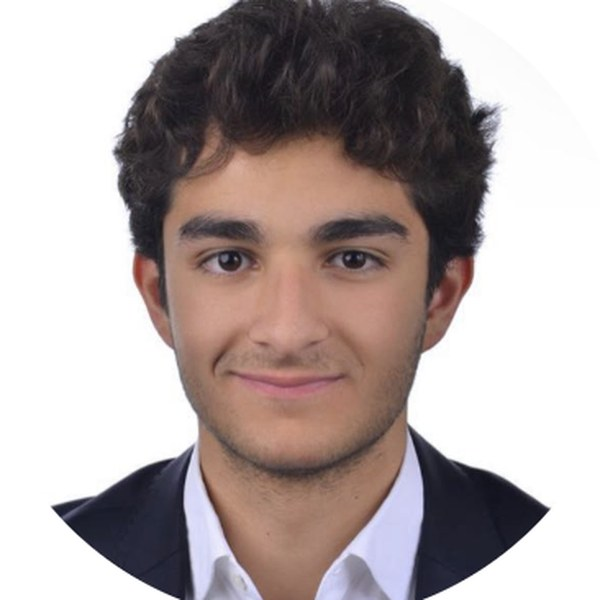
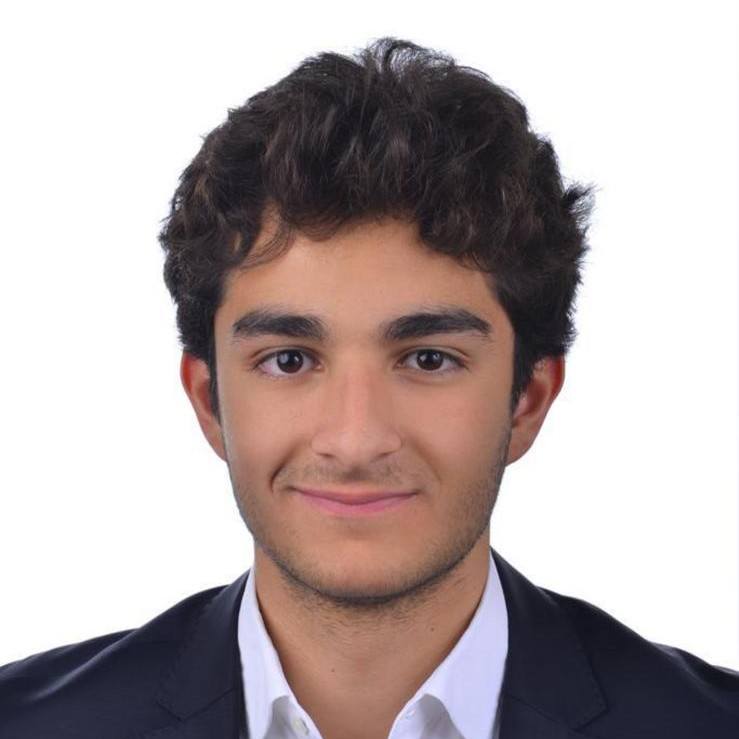
Rework team layout, add Team nav tab, fix schedule row duplication
- Center partial rows and give every team card the same width and height
- Move volunteers above judges; add judge Nicolas Murguia
- Zoom Eric Schwarz's photo; replace Bader Al-Saloum's headshot
- Add Team link to the desktop and mobile nav
- Key schedule rows by time + title so Day 2's two MLH Workshops no
  longer collide and leave a stale row when switching days
- Crew count is 250

Claude-Session: https://claude.ai/code/session_01Pmmr79BDP1hdPH9St7raZB

diff --git a/src/app/components/Team.tsx b/src/app/components/Team.tsx
@@ -14,6 +14,7 @@ import ericPhoto from '../../assets/team/eric-schwarz.jpg';
 import andriaPhoto from '../../assets/team/andria-gonzalez-lopez.jpg';
 import saludPhoto from '../../assets/team/salud-avila.jpg';
 import alejandroPhoto from '../../assets/team/alejandro-pose-santana.jpg';
+import nicolasPhoto from '../../assets/team/nicolas-murguia.jpg';
 
 type TeamMember = {
   name: string;
@@ -21,6 +22,7 @@ type TeamMember = {
   photo: string;
   linkedin?: string;
   objectPosition?: string;
+  zoom?: number;
 };
 
 const team: TeamMember[] = [
@@ -64,6 +66,7 @@ const judges: TeamMember[] = [
     photo: ericPhoto,
     linkedin: 'https://www.linkedin.com/in/eric-a-schwarz/',
     objectPosition: 'center 20%',
+    zoom: 1.6,
   },
   {
     name: 'Andria Gonzalez Lopez',
@@ -82,6 +85,12 @@ const judges: TeamMember[] = [
     role: 'Judge',
     photo: alejandroPhoto,
     linkedin: 'https://www.linkedin.com/in/alejandro-pose-santana-019452268/',
+  },
+  {
+    name: 'Nicolas Murguia',
+    role: 'Judge',
+    photo: nicolasPhoto,
+    linkedin: 'https://www.linkedin.com/in/nicolasmurguia/',
   },
 ];
 
@@ -128,20 +137,35 @@ const nameStyle = {
   fontFamily: "'Orbitron', sans-serif",
   fontSize: '14px',
   letterSpacing: '0.5px',
+  lineHeight: 1.4,
+};
+
+const subheadingStyle = {
+  fontFamily: "'Orbitron', sans-serif",
+  fontSize: 'clamp(10px, 2vw, 16px)',
+  lineHeight: 1.7,
 };
 
 function MemberCard({ member }: { member: TeamMember }) {
   return (
     <div
-      className="group flex flex-col items-center gap-4 border border-[#1a1a2e] bg-[#0D0D1A] p-6 transition-all duration-200 hover:bg-[#111128] hover:border-[#00FFB3] hover:scale-[1.02] hover:shadow-[0_0_30px_rgba(0,255,179,0.15)]"
+      className="group flex h-full flex-col items-center gap-4 border border-[#1a1a2e] bg-[#0D0D1A] p-6 transition-all duration-200 hover:bg-[#111128] hover:border-[#00FFB3] hover:scale-[1.02] hover:shadow-[0_0_30px_rgba(0,255,179,0.15)]"
     >
-      <img
-        src={member.photo}
-        alt={member.name}
-        className="h-48 w-48 md:h-56 md:w-56 rounded-full object-cover border-2 border-[#2a2a3e] group-hover:border-[#00FFB3] transition-colors duration-200"
-        style={{ imageRendering: 'auto', objectPosition: member.objectPosition ?? 'center' }}
-      />
-      <div className="text-center">
+      <div className="aspect-square w-full max-w-56 overflow-hidden rounded-full border-2 border-[#2a2a3e] group-hover:border-[#00FFB3] transition-colors duration-200">
+        <img
+          src={member.photo}
+          alt={member.name}
+          className="h-full w-full object-cover"
+          style={{
+            imageRendering: 'auto',
+            objectPosition: member.objectPosition ?? 'center',
+            transform: member.zoom ? `scale(${member.zoom})` : undefined,
+            transformOrigin: member.objectPosition ?? 'center',
+          }}
+        />
+      </div>
+      {/* Room for a two-line name and two-line role keeps every card the same height. */}
+      <div className="flex min-h-[calc(2*1.4*14px+4px+2*18px)] flex-col items-center justify-center text-center">
         {member.linkedin ? (
           <a
             href={member.linkedin}
@@ -170,6 +194,24 @@ function MemberCard({ member }: { member: TeamMember }) {
           {member.role}
         </p>
       </div>
+    </div>
+  );
+}
+
+// Flex-wrap rather than grid so a partial last row stays centered; every
+// group shares the same card width.
+function MemberGrid({ members }: { members: TeamMember[] }) {
+  return (
+    <div className="flex w-full flex-wrap justify-center gap-6">
+      {members.map((member, index) => (
+        <Reveal
+          key={member.name}
+          delay={index * 110}
+          className="w-full sm:w-[calc((100%-1.5rem)/2)] md:w-[calc((100%-3rem)/3)] lg:w-[calc((100%-6rem)/5)]"
+        >
+          <MemberCard member={member} />
+        </Reveal>
+      ))}
     </div>
   );
 }
@@ -217,55 +259,23 @@ export function Team() {
           }}
         />
 
-        <div className="grid grid-cols-1 sm:grid-cols-2 lg:grid-cols-4 gap-6 w-full">
-          {team.map((member, index) => (
-            <Reveal key={member.name} delay={index * 110}>
-              <MemberCard member={member} />
-            </Reveal>
-          ))}
-        </div>
+        <MemberGrid members={team} />
 
         <Reveal className="mb-8 mt-16 text-center md:mt-20">
-          <h3
-            className="text-white text-center"
-            style={{
-              fontFamily: "'Orbitron', sans-serif",
-              fontSize: 'clamp(10px, 2vw, 16px)',
-              lineHeight: 1.7,
-            }}
-          >
-            JUDGES
-          </h3>
-        </Reveal>
-
-        <div className="grid grid-cols-1 sm:grid-cols-2 lg:grid-cols-5 gap-6 w-full">
-          {judges.map((member, index) => (
-            <Reveal key={member.name} delay={index * 110}>
-              <MemberCard member={member} />
-            </Reveal>
-          ))}
-        </div>
-
-        <Reveal className="mb-8 mt-16 text-center md:mt-20">
-          <h3
-            className="text-white text-center"
-            style={{
-              fontFamily: "'Orbitron', sans-serif",
-              fontSize: 'clamp(10px, 2vw, 16px)',
-              lineHeight: 1.7,
-            }}
-          >
+          <h3 className="text-white text-center" style={subheadingStyle}>
             VOLUNTEERS
           </h3>
         </Reveal>
 
-        <div className="grid grid-cols-1 sm:grid-cols-2 lg:grid-cols-5 gap-6 w-full">
-          {volunteers.map((member, index) => (
-            <Reveal key={member.name} delay={index * 110}>
-              <MemberCard member={member} />
-            </Reveal>
-          ))}
-        </div>
+        <MemberGrid members={volunteers} />
+
+        <Reveal className="mb-8 mt-16 text-center md:mt-20">
+          <h3 className="text-white text-center" style={subheadingStyle}>
+            JUDGES
+          </h3>
+        </Reveal>
+
+        <MemberGrid members={judges} />
       </div>
     </section>
   );

diff --git a/src/app/components/Navigation.tsx b/src/app/components/Navigation.tsx
@@ -143,6 +143,13 @@ export function Navigation({ page = 'home', onNavigate }: NavigationProps = {}) 
             Sponsors
           </button>
           <button
+            onClick={() => scrollToSection('team')}
+            className="nav-link text-[#F4F4F4] hover:text-[#044a94] transition-colors"
+            style={{ fontFamily: "'Space Mono', monospace", fontSize: '15px', fontWeight: 700, letterSpacing: '1px' }}
+          >
+            Team
+          </button>
+          <button
             onClick={launchFaqTerminal}
             className="nav-link text-[#F4F4F4] hover:text-[#044a94] transition-colors"
             style={{ fontFamily: "'Space Mono', monospace", fontSize: '15px', fontWeight: 700, letterSpacing: '1px' }}
@@ -207,6 +214,13 @@ export function Navigation({ page = 'home', onNavigate }: NavigationProps = {}) 
               style={{ fontFamily: "'Space Mono', monospace", fontSize: '15px', fontWeight: 700, letterSpacing: '1px' }}
             >
               Sponsors
+            </button>
+            <button
+              onClick={() => scrollToSection('team')}
+              className="nav-link text-[#F4F4F4] hover:text-[#044a94] text-left transition-colors"
+              style={{ fontFamily: "'Space Mono', monospace", fontSize: '15px', fontWeight: 700, letterSpacing: '1px' }}
+            >
+              Team
             </button>
             <button
               onClick={launchFaqTerminal}

diff --git a/src/components/RegisterPage.tsx b/src/components/RegisterPage.tsx
@@ -19,7 +19,7 @@ export function RegisterPage() {
             Register for <span className="text-transparent bg-clip-text bg-gradient-to-r from-blue-400 to-cyan-400">Gator Quant Hacks</span>
           </h1>
           <p className="text-gray-300 text-lg">
-            Join 500+ students for 36 hours of quantitative innovation
+            Join 250+ students for 36 hours of quantitative innovation
           </p>
         </div>
       </div>

diff --git a/src/app/components/Schedule.tsx b/src/app/components/Schedule.tsx
@@ -300,7 +300,7 @@ export function Schedule() {
 
               return (
                 <div
-                  key={`${day.label}-${event.title}`}
+                  key={`${day.label}-${event.time}-${event.title}`}
                   className="schedule-row grid gap-4 px-6 py-6 md:grid-cols-[160px_minmax(0,1fr)] md:gap-6 md:px-8"
                 >
                   <div className="relative z-10 flex items-start md:justify-start">

diff --git a/src/app/components/StatsBar.tsx b/src/app/components/StatsBar.tsx
@@ -14,7 +14,7 @@ const stats: StatCard[] = [
   },
   {
     label: 'CREW',
-    value: '500',
+    value: '250',
     color: '#63F6FF',
   },
   {
